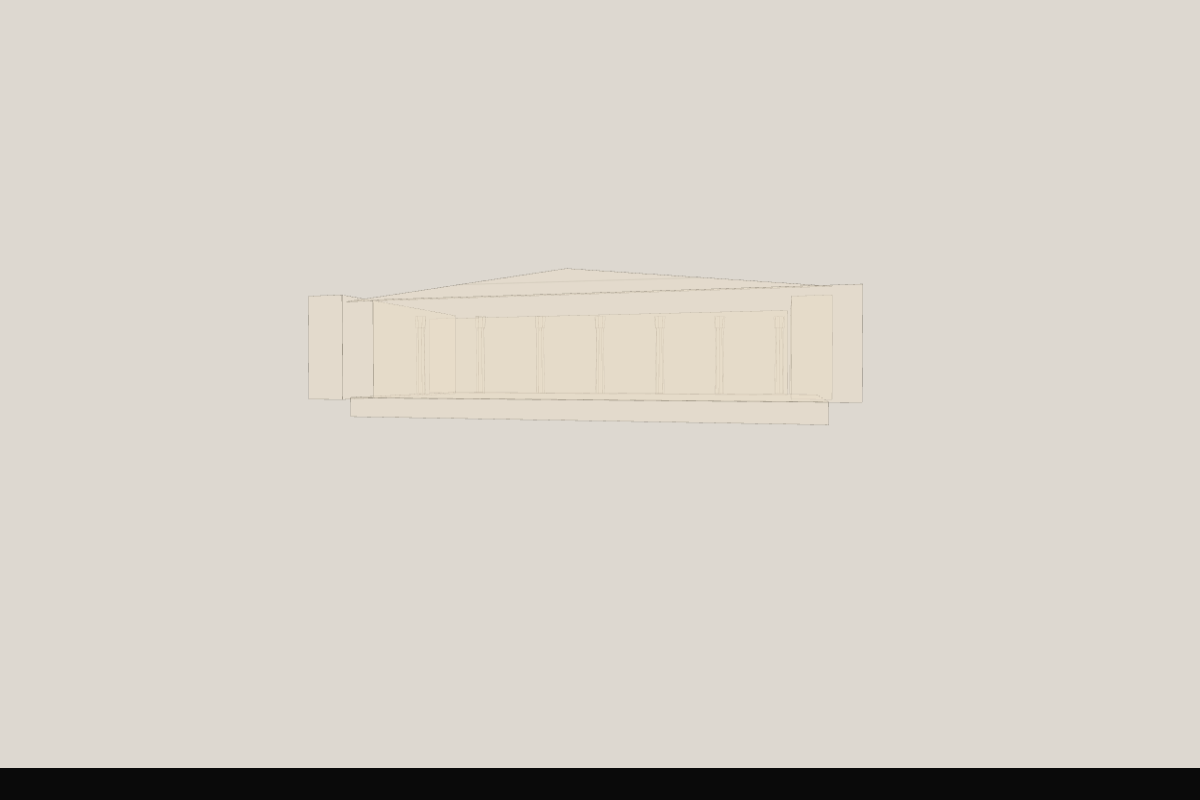
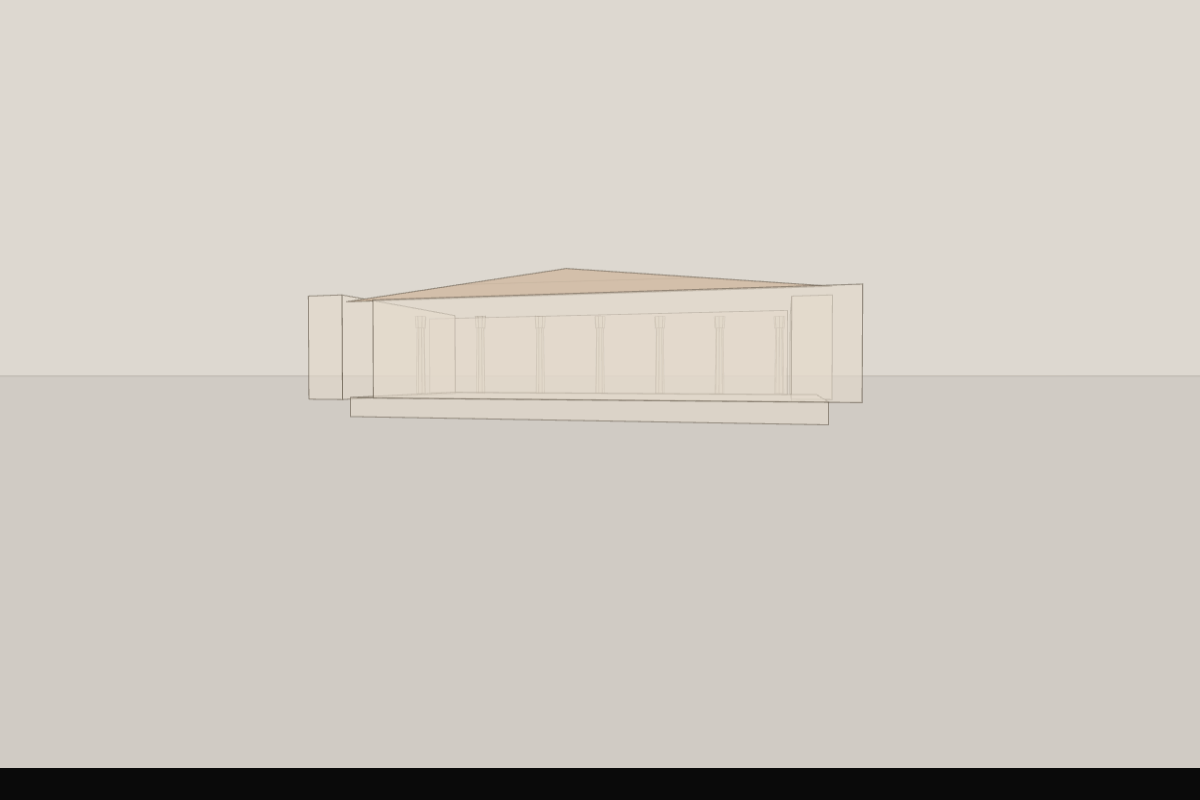
fix: v0.1.2 rendering quality — thicker strokes, face shading, ground plane
- depthAdjustedStyle: 3x stroke weight multiplier (min 0.8 vs 0.3),
  element-type-aware fill (roof/opening/structure/decorative), directional
  face shading from fixed light direction, atmospheric color blending
- Layer renderer: ground plane + horizon line using horizonScreenY()
- Windows: darker glass (#0e0e1a), boosted frame/mullion visibility
- All example renders updated

diff --git a/src/projection/bridge.ts b/src/projection/bridge.ts
@@ -18,7 +18,7 @@ import type {
   StylePalette,
 } from "../types.js";
 import { getElementRenderer } from "../elements/index.js";
-import { darken } from "../shared/color-utils.js";
+import { darken, lighten, lerpColor } from "../shared/color-utils.js";
 import { mulberry32 } from "../shared/prng.js";
 
 // ---------------------------------------------------------------------------
@@ -161,9 +161,15 @@ export function isBuildingVisible(
 // Depth-aware render style
 // ---------------------------------------------------------------------------
 
+/** Hint about what kind of element is being rendered — affects fill color. */
+export type ElementHint = "wall" | "roof" | "opening" | "structure" | "decorative";
+
 /**
  * Compute a render style adjusted for distance from the camera.
  * Farther objects get thinner strokes, lower opacity, lower detail.
+ *
+ * `faceDot` is the dot product of the face normal with the light direction
+ * (range -1 to 1). Positive = lit, negative = shadow. Used for directional shading.
  */
 export function depthAdjustedStyle(
   palette: StylePalette,
@@ -171,16 +177,53 @@ export function depthAdjustedStyle(
   scale: number,
   detail: number,
   wireframe: boolean,
+  hint: ElementHint = "wall",
+  faceDot: number = 0,
 ): RenderStyle {
   // Atmospheric fade: objects further away become lighter / less saturated
   const atmosphereFade = Math.max(0, Math.min(1, depth * 0.8));
-  const atmosphereColor = "#d8d4d0";
+
+  // Base fill color depends on element type
+  let baseFill: string;
+  switch (hint) {
+    case "roof":
+      baseFill = palette.roof;
+      break;
+    case "opening":
+      baseFill = palette.opening;
+      break;
+    case "structure":
+      baseFill = palette.structure;
+      break;
+    case "decorative":
+      baseFill = palette.trim;
+      break;
+    default:
+      baseFill = palette.wall;
+  }
+
+  // Directional shading: darken shadow-facing sides, lighten lit sides
+  const shadingAmount = faceDot * 0.2; // subtle: ±20% darken/lighten
+  const shadedFill = shadingAmount < 0
+    ? darken(baseFill, -shadingAmount)
+    : lighten(baseFill, shadingAmount);
+
+  // Atmospheric blend toward background for distant objects
+  const finalFill = atmosphereFade > 0.1
+    ? lerpColor(shadedFill, "#d8d4d0", atmosphereFade * 0.4)
+    : shadedFill;
+
+  // Stroke: atmospheric fade lightens the stroke for distant objects
+  const finalStroke = atmosphereFade > 0.3
+    ? lerpColor(palette.stroke, "#a0988c", atmosphereFade * 0.5)
+    : palette.stroke;
 
   return {
-    strokeColor: atmosphereFade > 0.5 ? darken(palette.stroke, atmosphereFade * 0.3) : palette.stroke,
-    fillColor: palette.wall,
-    strokeWeight: Math.max(0.3, (1 - atmosphereFade * 0.5) * Math.min(2, scale * 0.02)),
-    opacity: Math.max(0.2, 1 - atmosphereFade * 0.6),
+    strokeColor: finalStroke,
+    fillColor: finalFill,
+    // 3x multiplier vs old formula — visible strokes at all scales
+    strokeWeight: Math.max(0.8, (1 - atmosphereFade * 0.4) * Math.min(4, scale * 0.06)),
+    opacity: Math.max(0.3, 1 - atmosphereFade * 0.5),
     detail: detail * (1 - atmosphereFade * 0.5),
     wireframe,
   };
@@ -194,6 +237,26 @@ export function depthAdjustedStyle(
 export interface RenderItem {
   depth: number;
   draw: (ctx: CanvasRenderingContext2D) => void;
+}
+
+// ---------------------------------------------------------------------------
+// Light direction (fixed sun from upper-left-front)
+// ---------------------------------------------------------------------------
+
+/** Normalized light direction vector — upper-left, slightly forward. */
+const LIGHT_DIR: Vec3 = (() => {
+  const lx = -0.5, ly = 0.7, lz = 0.5;
+  const len = Math.sqrt(lx * lx + ly * ly + lz * lz);
+  return { x: lx / len, y: ly / len, z: lz / len };
+})();
+
+/** Classify an element type into a rendering hint. */
+function classifyElement(type: string): ElementHint {
+  if (type.startsWith("roof-")) return "roof";
+  if (type.startsWith("window-") || type.startsWith("door-")) return "opening";
+  if (type.startsWith("column-") || type.startsWith("pilaster") || type.startsWith("beam-") || type.startsWith("buttress-")) return "structure";
+  if (["cornice", "frieze", "string-course", "quoins", "rustication", "tracery", "timber-framing", "zellige", "mashrabiya"].includes(type)) return "decorative";
+  return "wall";
 }
 
 /**
@@ -222,7 +285,22 @@ export function renderBuilding(
     const avgDepth = visibleQuads.reduce((s, q) => s + q.depth, 0) / visibleQuads.length;
     const avgScale = visibleQuads.reduce((s, q) => s + q.scale, 0) / visibleQuads.length;
 
-    const style = depthAdjustedStyle(palette, avgDepth, avgScale, element.detail, wireframe);
+    // Compute average face dot product with light direction for shading
+    const hint = classifyElement(element.type);
+    let avgDot = 0;
+    if (result.quads.length > 0) {
+      let dotSum = 0;
+      for (const quad of result.quads) {
+        const n = quad.normal;
+        const len = Math.sqrt(n.x * n.x + n.y * n.y + n.z * n.z);
+        if (len > 0) {
+          dotSum += (n.x * LIGHT_DIR.x + n.y * LIGHT_DIR.y + n.z * LIGHT_DIR.z) / len;
+        }
+      }
+      avgDot = dotSum / result.quads.length;
+    }
+
+    const style = depthAdjustedStyle(palette, avgDepth, avgScale, element.detail, wireframe, hint, avgDot);
 
     items.push({
       depth: avgDepth,

diff --git a/src/elements/windows.ts b/src/elements/windows.ts
@@ -103,21 +103,36 @@ function drawWindow(
 ): void {
   if (projected.length === 0) return;
 
-  // First quad = frame (use fill color), second = glass (use opening/dark color)
+  // First quad = frame surround, second = glass pane, rest = mullions/transoms
   for (let i = 0; i < projected.length; i++) {
     const sq = projected[i]!;
     if (!sq.visible) continue;
 
-    if (i === 1) {
-      // Glass pane — dark fill
+    if (i === 0) {
+      // Frame surround — slightly lighter than wall, thicker stroke
+      const frameStyle: RenderStyle = {
+        ...style,
+        strokeWeight: style.strokeWeight * 1.2,
+        opacity: Math.min(1, style.opacity * 1.1),
+      };
+      drawQuad(ctx, sq, frameStyle);
+    } else if (i === 1) {
+      // Glass pane — very dark fill, full opacity for contrast
       const glassStyle: RenderStyle = {
         ...style,
-        fillColor: "#1a1a2e",
-        strokeWeight: style.strokeWeight * 0.6,
+        fillColor: "#0e0e1a",
+        strokeWeight: style.strokeWeight * 0.8,
+        opacity: Math.min(1, style.opacity + 0.2),
       };
       drawQuad(ctx, sq, glassStyle);
     } else {
-      drawQuad(ctx, sq, style);
+      // Mullion bars — thicker for visibility
+      const mullionStyle: RenderStyle = {
+        ...style,
+        strokeWeight: style.strokeWeight * 0.7,
+        opacity: Math.min(1, style.opacity + 0.1),
+      };
+      drawQuad(ctx, sq, mullionStyle);
     }
   }
 }

diff --git a/src/layers/building.ts b/src/layers/building.ts
@@ -7,7 +7,7 @@ import type {
   ValidationError,
 } from "@genart-dev/core";
 import type { Camera, Viewport } from "@genart-dev/projection";
-import { createCamera } from "@genart-dev/projection";
+import { createCamera, horizonScreenY } from "@genart-dev/projection";
 import type { ArchitecturalStyleName, BuildingConfig } from "../types.js";
 import { compositeBuilding, defaultBuildingConfig } from "../compositor.js";
 import { renderBuilding, makeViewport } from "../projection/index.js";
@@ -281,6 +281,26 @@ export const buildingLayerType: LayerTypeDefinition = {
     const items = renderBuilding(building, camera, viewport, palette, p.wireframe);
 
     ctx.save();
+
+    // --- Ground plane + horizon ---
+    const horizY = horizonScreenY(camera, viewport);
+    if (horizY < bounds.height) {
+      // Ground fill below horizon — subtle warm grey
+      ctx.fillStyle = "#d0cbc4";
+      ctx.fillRect(0, horizY, bounds.width, bounds.height - horizY);
+
+      // Horizon line — thin, subtle
+      ctx.strokeStyle = palette.stroke;
+      ctx.globalAlpha = 0.25;
+      ctx.lineWidth = 0.8;
+      ctx.beginPath();
+      ctx.moveTo(0, horizY);
+      ctx.lineTo(bounds.width, horizY);
+      ctx.stroke();
+      ctx.globalAlpha = 1;
+    }
+
+    // --- Building elements ---
     for (const item of items) {
       item.draw(ctx);
     }

diff --git a/src/projection/index.ts b/src/projection/index.ts
@@ -7,4 +7,4 @@ export {
   depthAdjustedStyle,
   renderBuilding,
 } from "./bridge.js";
-export type { RenderItem } from "./bridge.js";
+export type { RenderItem, ElementHint } from "./bridge.js";
